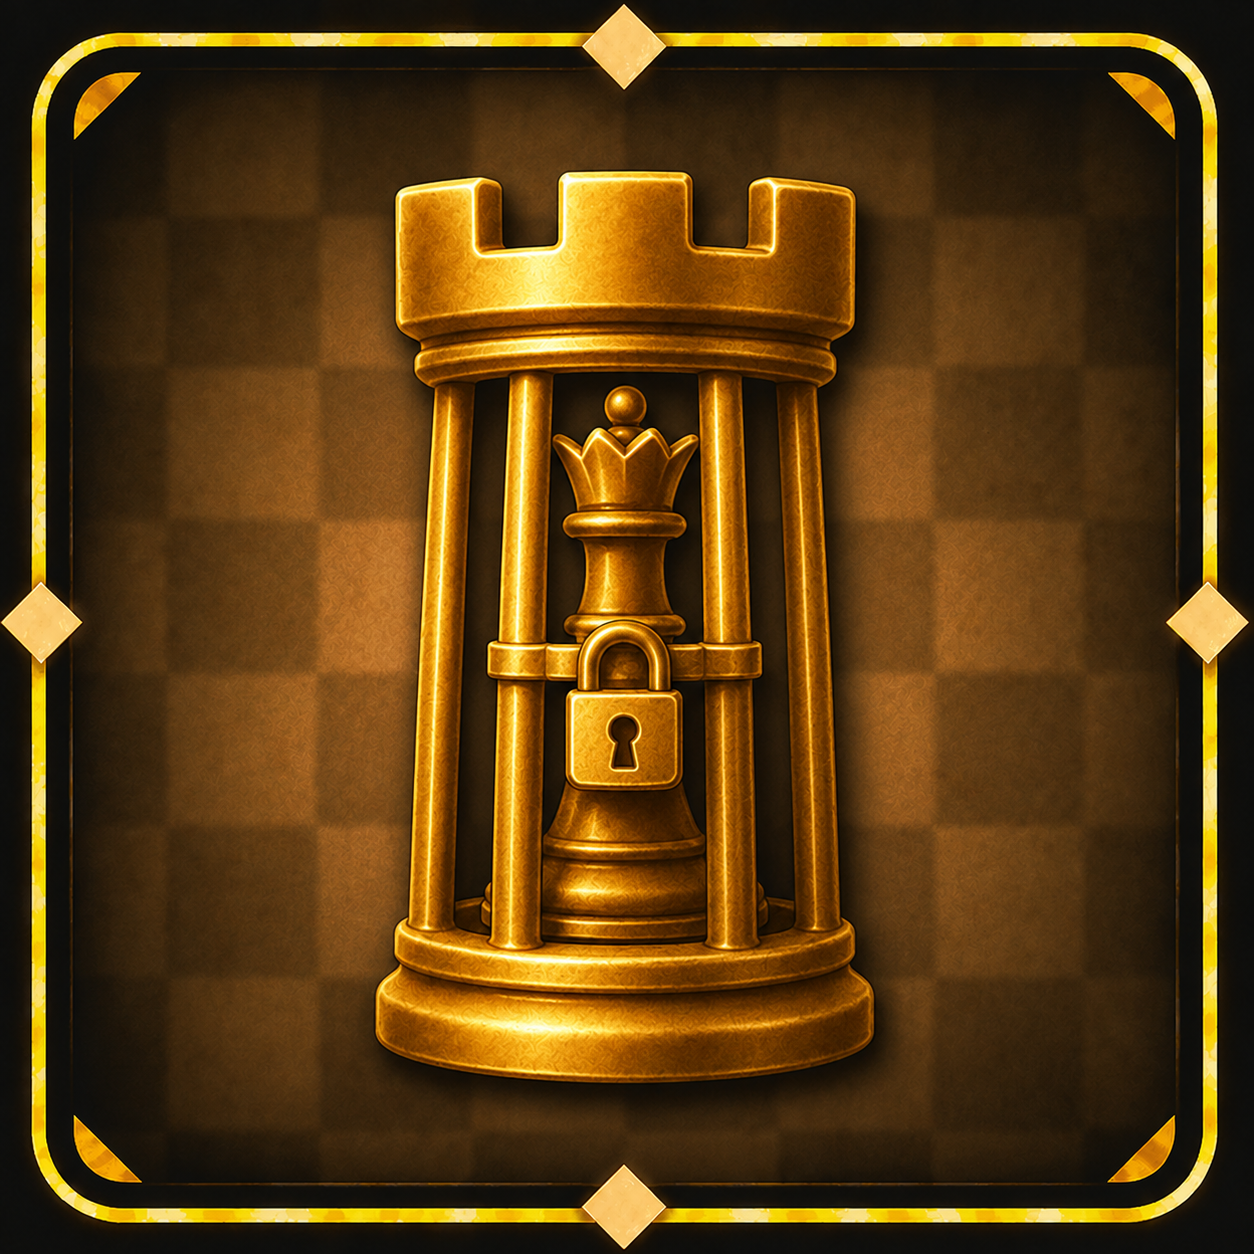
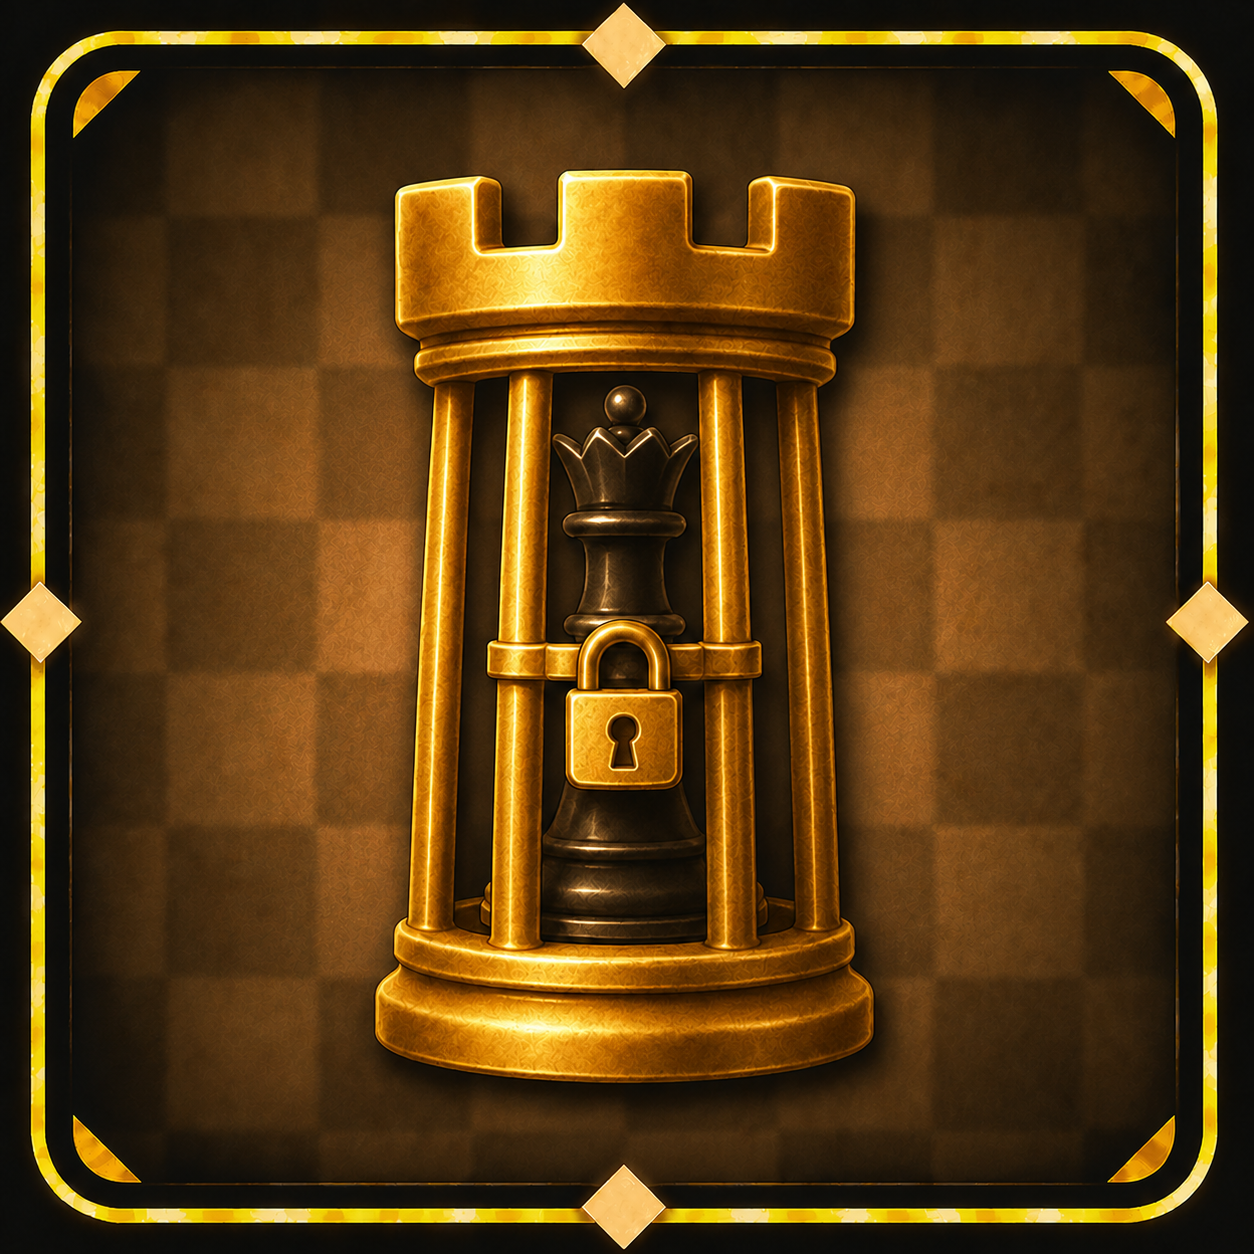
corecţia de culoare pentru „Resurse defensive"
Pionul, coiful şi scutul devin negre; piesele căzute din jur rămân aurii.
Armura arată oricum mai bine în metal închis — fierul negru cu reflexii calde e
mai credibil decât fierul auriu, iar o siluetă întunecată printre piese luminoase
are mai multă forţă.

Grija principală, scrisă separat în prompt: ADÂNCITURILE DIN SCUT trebuie să
rămână vizibile. Pe metal închis dispar primele, iar fără ele scutul nu mai spune
că a încasat lovituri — adică se pierde jumătate din poveste, cea cu „poziţia
pare pierdută". Am cerut lumină caldă pe muchia lor de sus şi umbră adâncă
înăuntru.

Am notat şi o observaţie de coerenţă, cu fraza de inversat dacă e cazul: cu
apărătorul negru şi căzuţii aurii, imaginea spune „ale noastre au căzut, a lui a
rezistat".

diff --git a/docs/prompturi-imagini/09-resurse-defensive.md b/docs/prompturi-imagini/09-resurse-defensive.md
@@ -1,7 +1,79 @@
 # 9. Resurse defensive → `forced-draws.png`
 
-**Metafora:** un **pion** în armură, cu un scut mare înfipt în pământ, singurul
-rămas în picioare printre piese răsturnate.
+**Metafora:** un pion în armură, cu un scut mare, singurul rămas în picioare
+printre piese răsturnate.
+
+> **Starea:** plăcuța a ieșit bine. Rămâne o corecție — **pionul, coiful și
+> scutul devin negre**, iar piesele căzute din jur rămân aurii.
+
+---
+
+## Corecție — armura devine neagră
+
+Armura arată oricum mai bine în metal închis: fierul negru cu reflexii calde e
+mai credibil decât fierul auriu, iar o siluetă întunecată în mijlocul unor piese
+luminoase are mai multă forță.
+
+**O observație, ca s-o ai în vedere:** cu apărătorul negru și piesele căzute
+aurii, imaginea spune „ale noastre au căzut, a lui a rezistat". Dacă vrei
+invers — adică noi suntem cei care rezistăm — se schimbă piesele căzute în negru,
+nu apărătorul. Fraza de adăugat la sfârșitul promptului:
+
+> *Instead, keep the armoured pawn and its shield gold, and recolour the three
+> toppled pieces to the dark near-black bronze.*
+
+O grijă anume: **adânciturile din scut trebuie să rămână vizibile** după
+înnegrire. Pe metal închis dispar primele, iar fără ele scutul nu mai spune că a
+încasat lovituri — adică se pierde jumătate din poveste.
+
+**Atașează la mesaj DOUĂ imagini:**
+1. [`Resurse defensive.png`](../../surse-imagini/tactici/Resurse%20defensive.png) — cea de corectat;
+2. [`Sacrificii.png`](../../surse-imagini/tactici/Sacrificii.png) — modelul de negru, unde a ieșit bine.
+
+```text
+Here are two images you made earlier. The first is the defensive-resources tile, which needs one correction. The second is the sacrifice tile — use the dark metal of its three black pieces as the model.
+
+In the FIRST image, recolour the standing figure in the centre — ALL of it — to DARK, near-black bronze, exactly like the king, the rook and the bishop in the second image: highlight #4A3A1C, mid-tone #241A0A, deep shadow #0E0A04, with a thin warm gold rim light along its edges so its silhouette stays crisp against the brown board.
+
+By "all of it" I mean these three things, which are one object: the armoured HELMET with its eye slit, the PAWN body behind and below the shield, and the large SHIELD itself with its raised rim. All three become the same dark metal. Nothing of the standing figure stays gold.
+
+KEEP THE BATTLE DAMAGE VISIBLE. The shield has two or three deep dents and a long diagonal scrape across its face. On dark metal these are the first things to disappear, and they must not: keep every dent and the scrape exactly where they are now, and make them read by catching a bright warm highlight along their upper edges and holding a deeper shadow inside them. After the change, a viewer must still see at a glance that this shield has taken heavy blows and held.
+
+DO NOT CHANGE ANYTHING ELSE:
+- the THREE TOPPLED PIECES lying around — the rook on the left, the knight on the right and the bishop at the bottom — stay exactly as they are, in their present gold, at their present size, angle and position;
+- the ornamental gold frame, its corner pieces and its four diamonds;
+- the brown chessboard background, its pattern and the warm glow;
+- the composition: the standing figure keeps exactly its present size, pose and position, and the shield keeps its shape and its raised rim;
+- the lighting direction and the drop shadows;
+- the square format and the framing.
+
+This is a recolour of one object in an existing image, not a new illustration. Nothing may move, resize or change shape.
+
+Keep the same square size, at least 1024x1024.
+```
+
+---
+
+**Salvează ca:** peste poza actuală.
+
+**Verificare**
+
+1. **Se mai văd adânciturile?** Ăsta e testul principal. Dacă scutul a ieșit
+   neted și întunecat, s-a pierdut ideea că a încasat lovituri. Cere: *„bring
+   back the dents and the scrape, catch a bright highlight on their upper
+   edges"*.
+2. **E negru tot?** Coif, corp și scut. Dacă doar scutul s-a schimbat, arată ca
+   un pion auriu care ține un scut împrumutat.
+3. **Piesele căzute au rămas aurii?** Turnul, calul și nebunul, în aceleași
+   poziții.
+4. **Silueta se desprinde de fundal?** Conturul cald pe muchii e ce o ține
+   vizibilă pe tabla maro.
+
+---
+
+## Promptul original
+
+*Păstrat pentru referință — corecția de sus e cea care se folosește acum.*
 
 Descrierea din [`src/data/tactics.ts`](../../src/data/tactics.ts) cere ambele
 jumătăți ale imaginii:
